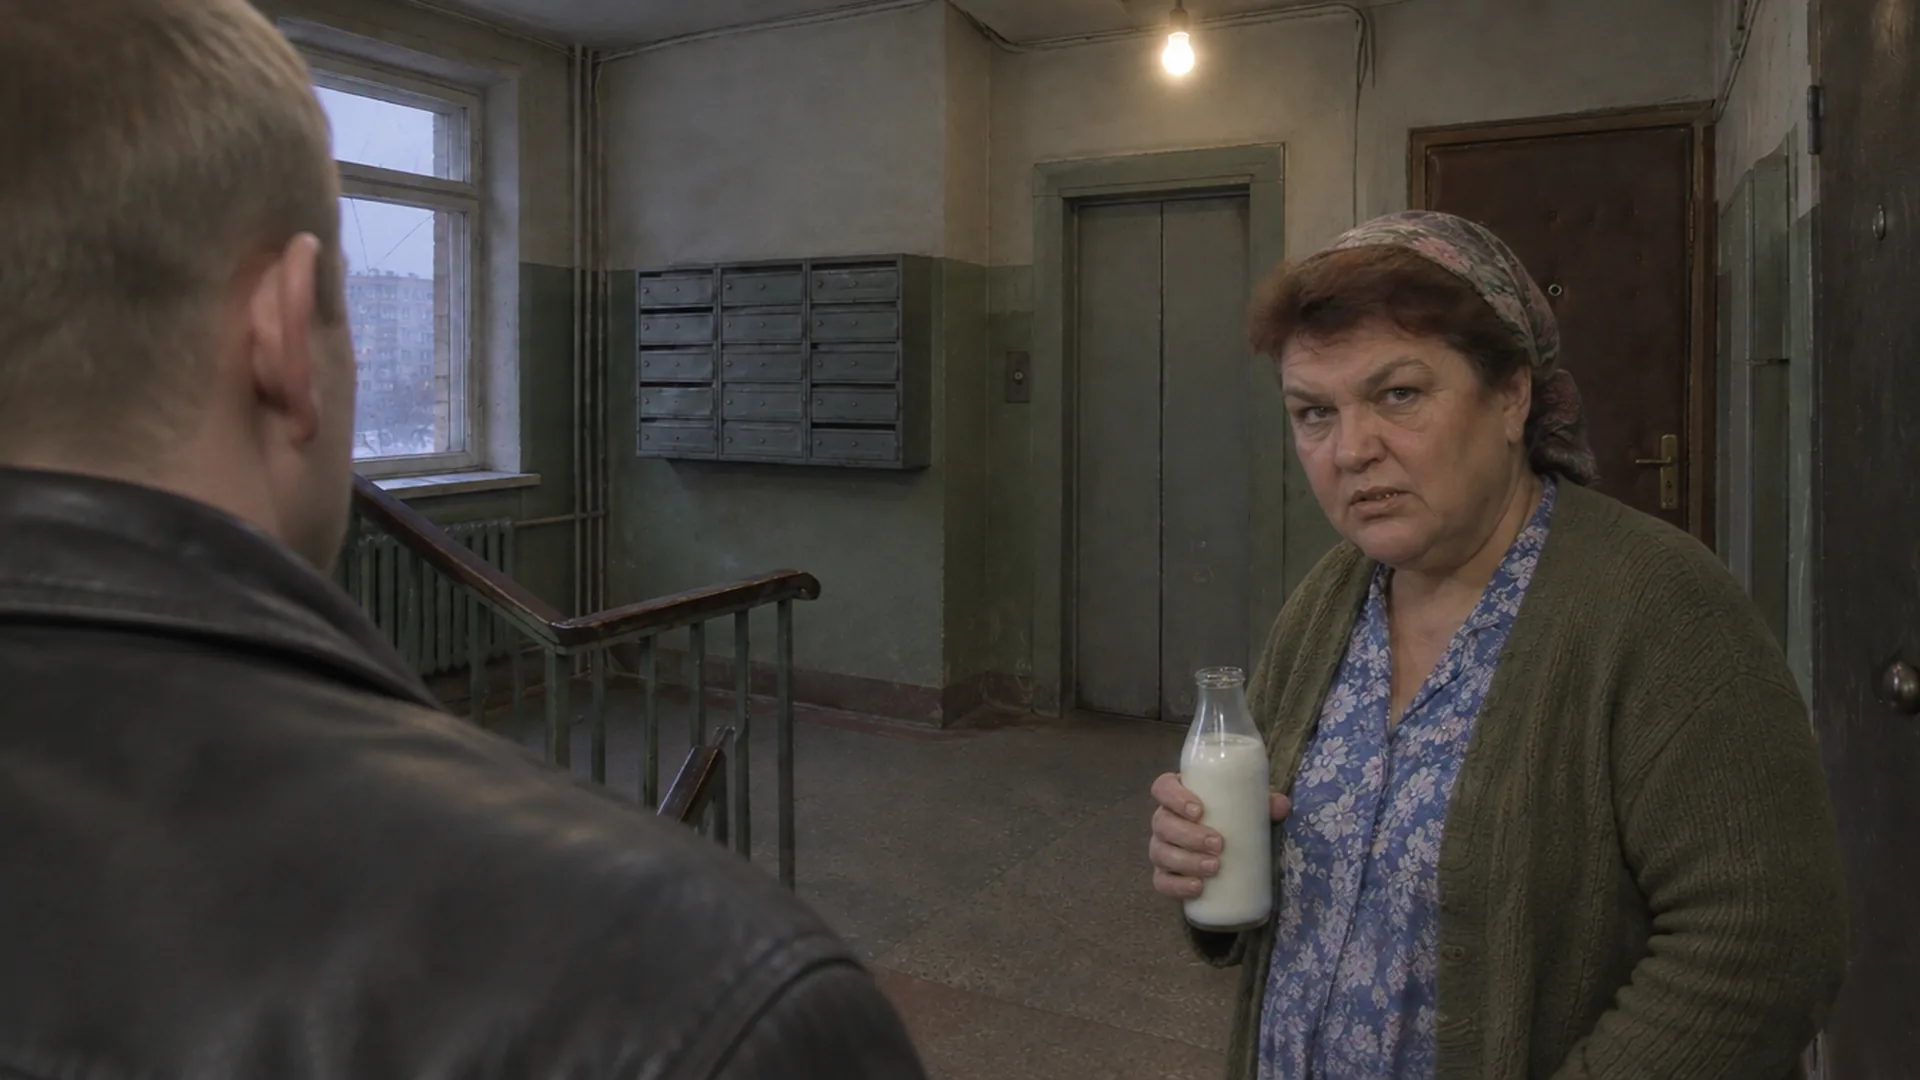
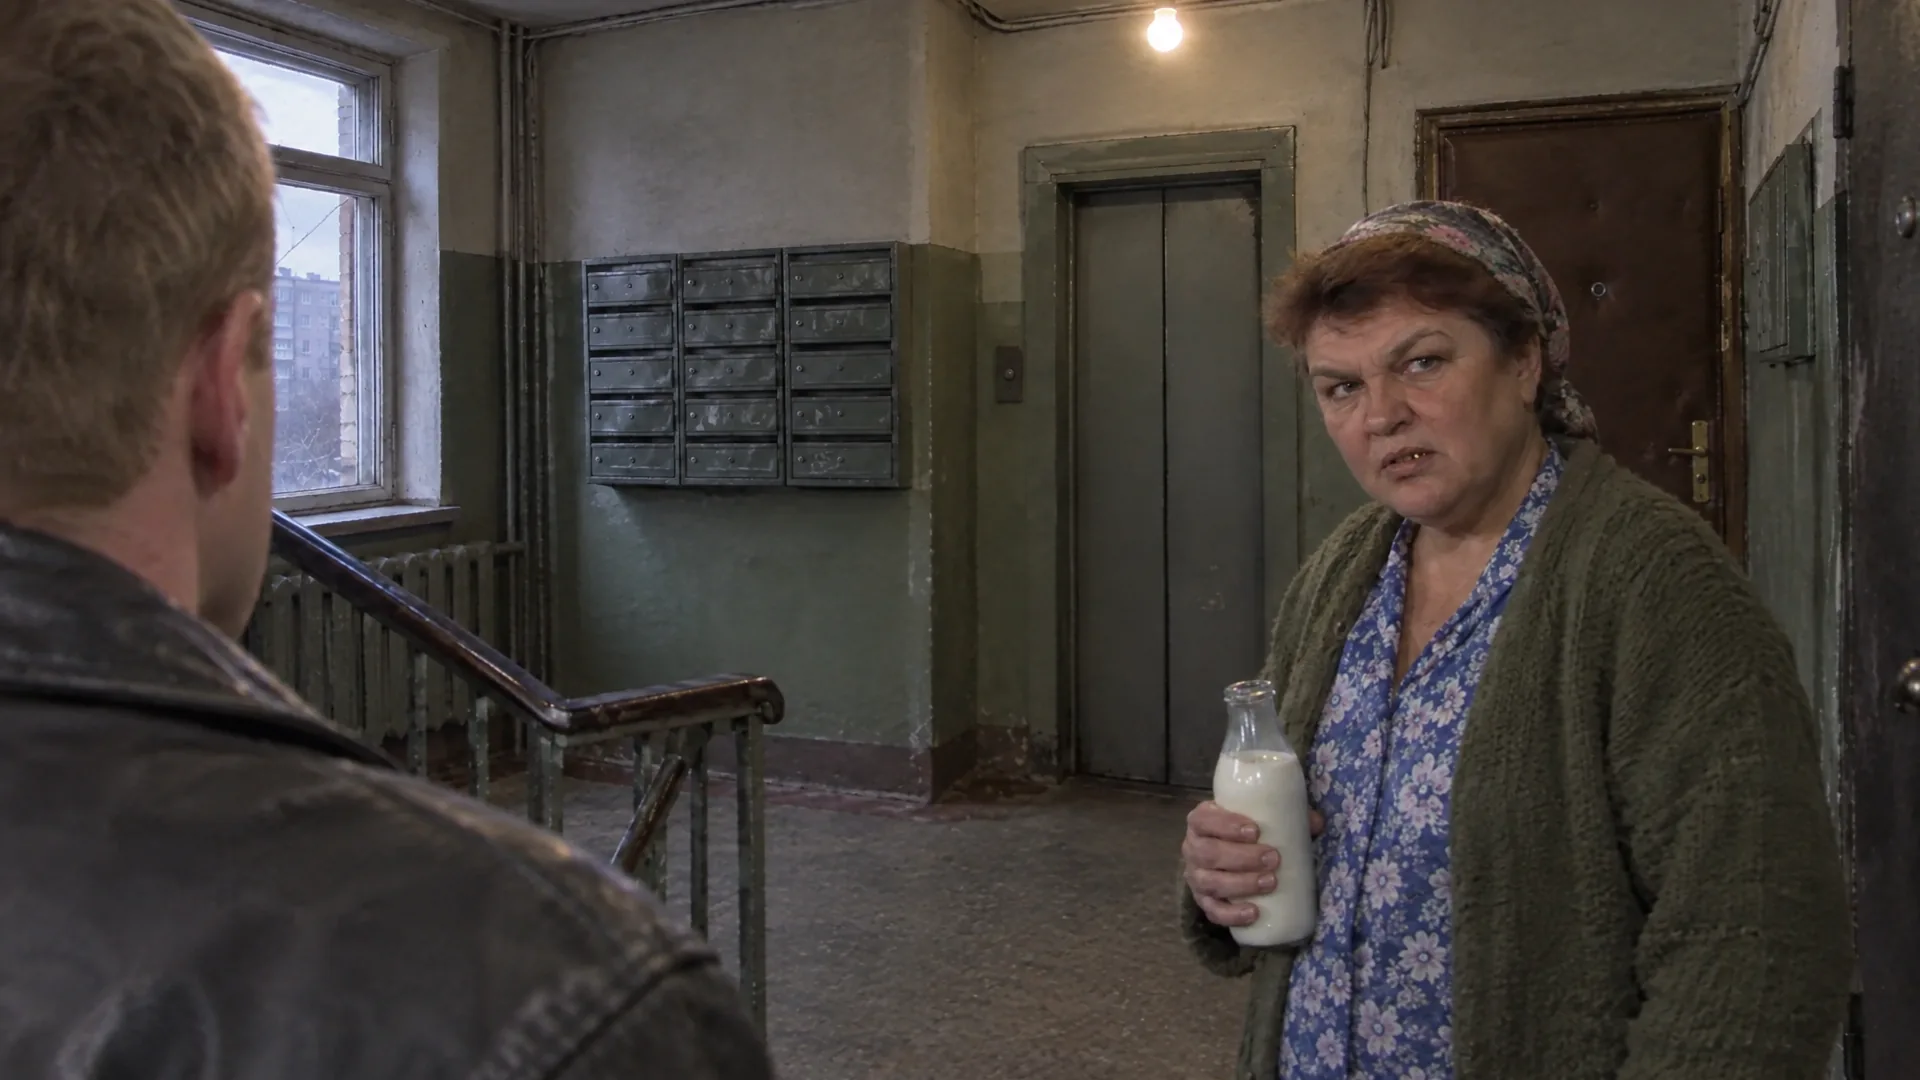
Пересъёмка на high: stairwell — 28 кадров через API, кропы-референсы локальными файлами
Общие планы по фону и лицам, эталонный крупный план соседки, кропы нового
wide_1/wide_3 (crop_ref.py) вместо загруженных в Higgsfield; 28 из 28
приняты с первого раза, $2.27.

diff --git a/tools/shot_plan.py b/tools/shot_plan.py
@@ -543,9 +543,9 @@ REGEN = False  # --regen: кадры по новым лицам — старые
 # "medium"/"angle"/"insert"/"medium_solo" — загруженные кропы этого плана (media:<id>, assets/ep01/refs/*_v2.jpg),
 # "close"/"reaction" — принятый новый крупный план. Общие планы (wide) всегда снимаются по фону без людей.
 REGEN_REFS: dict[str, dict[str, str]] = {
-    "stairwell": {"room": "sh_stairwell_wide_1", "medium": "media:cf6026f7-41b1-48a1-bd0b-5e8d43ebdfaf",
-                  "angle": "media:cf6026f7-41b1-48a1-bd0b-5e8d43ebdfaf", "insert": "media:cf6026f7-41b1-48a1-bd0b-5e8d43ebdfaf",
-                  "medium_solo": "media:c710dca4-599d-4153-914e-7fdf00dfcac3"},
+    "stairwell": {"room": "sh_stairwell_wide_1", "medium": "file:assets/ep01/refs/stairwell_medium_v2.jpg",
+                  "angle": "file:assets/ep01/refs/stairwell_medium_v2.jpg", "insert": "file:assets/ep01/refs/stairwell_medium_v2.jpg",
+                  "medium_solo": "file:assets/ep01/refs/stairwell_medium_solo_v2.jpg"},
     "apartment_zoya": {"room": "sh_apartment_zoya_wide_1", "medium": "file:assets/ep01/refs/apartment_zoya_medium_v2.jpg",
                        "angle": "file:assets/ep01/refs/apartment_zoya_medium_v2.jpg", "insert": "file:assets/ep01/refs/apartment_zoya_medium_v2.jpg",
                        "medium_solo": "media:f2b7b3ac-4120-4d2f-9501-dd407a5aab1b"},

diff --git a/tools/regen/crop_ref.py b/tools/regen/crop_ref.py
@@ -1,0 +1,9 @@
+"""crop_ref.py <кадр.png|webp> <refs/out.jpg> [x0 y0 x1 y1]: кроп-референс средней крупности из принятого общего плана —
+доли кадра (по умолчанию 0.15 0.12 0.85 0.82), растянутые до 1920×1080, jpg q92. В REGEN_REFS — как file:<out.jpg>."""
+import sys
+from PIL import Image
+src, out = sys.argv[1], sys.argv[2]
+b = [float(v) for v in sys.argv[3:7]] or [0.15, 0.12, 0.85, 0.82]
+im = Image.open(src).convert('RGB'); w, h = im.size
+im.crop((round(b[0] * w), round(b[1] * h), round(b[2] * w), round(b[3] * h))).resize((1920, 1080), Image.LANCZOS).save(out, quality=92)
+print(out, b)

diff --git a/assets/ep01/generation-log.md b/assets/ep01/generation-log.md
@@ -414,6 +414,7 @@ daylight, slush»). Решение: панорама хроники переге
 | 100 | **Пересъёмка покрытия по новым лицам**, сет stairwell (по просьбе владельца «вобрать все кадры с новыми портретами, качество 1080, проверять на артефакты»): 28 кадров gpt_image_2_5, `quality: low`, `resolution: 1k` (1344×752, 0,25 кредита за кадр), общий план wide_1 — `medium` (0,5). Планировщик `--regen`: общие планы по фону без людей и лицам из `faces/`; средние, ракурсы и вставки — по загруженному кропу нового wide_1; ots — по новому wide_1; крупные и реакции — только по лицу, фон из текста сцены; старые кадры референсом не идут. Каждый кадр просмотрен: лицо против портрета, руки и пальцы, предметы без дублей, надписи не читаются, эпоха | принято 28 из 28, отбраковано 0; ≈ 7,25 кредита |
 | 101 | **Спрайты по новым лицам, high** (решение владельца 2026-10-12: всё с людьми и для мини-игр — `quality: high`): 13 баз `neutral` gpt_image_2_5 flare, 9:16, high/2k (2,75 кредита), `background: transparent`, Reference 1 — файл лица `faces/<id>.webp`; SCENE — `export_prompts.sprite_scene`, план — `tools/regen/sprite_plan.py`. Старые спрайты (2026-10-10) были по лицам первой редакции | 13 из 13 приняты с первого раза: лицо и одежда совпадают с портретом, альфа есть (1520×2688 → 792×1400), руки целы; 35,75 кредита |
 | 102 | **Выражения спрайтов, high**: 21 правка принятой базы (Reference 1 — база, «то же лицо, одежда, поза и кадр; меняется только выражение»; тексты выражений — `sprite_plan.EXPR`). 13 — Higgsfield high/2k (кредиты кончились: 2,55 осталось), 8 — API gpt-image-2.5-flare high 1088×1920 с `background: transparent` (≈ $0.055 за спрайт; альфа есть) | 21 из 21 приняты с первого раза; рамка фигуры у выражения совпадает с базой в пределах 1–2 % высоты (boss.tired оседает — так в тексте выражения), смена выражения в игре без скачка |
+| 103 | **Пересъёмка stairwell на high** через API (gpt-image-2.5-flare, high, 1920×1088 → 1920×1080): волна A — wide ×3 по фону и лицам + эталонный крупный план соседки; кропы нового wide_1 и wide_3 → `refs/stairwell_medium_v2.jpg`, `refs/stairwell_medium_solo_v2.jpg` (`tools/regen/crop_ref.py`, в `REGEN_REFS` как `file:`); волна B — 24 кадра | 28 из 28 приняты с первого раза; печать на бумажке вставки и газеты в ящиках — нечитаемая вязь; почтовые ящики на крупных планах синее, чем на общих (крупные строятся без референса комнаты, фон размыт) — допустимо; $2.27 (≈ $0.081 за кадр) |
 
 Правила, добавленные по итогам: словесные приметы каждого референса (`docs/production/prompts/ep01-images.md`,
 таблица персонажей); для `ots` — «камера за спиной X, лицом к камере Y, людей не менять местами» и явные

diff --git a/assets/ep01/regen/README.md b/assets/ep01/regen/README.md
@@ -17,7 +17,7 @@
 |---|---|---|---|
 | Спрайты — базы `neutral` | 13 | 13 (в манифесте, файлы на месте) | Higgsfield high/2k |
 | Спрайты — выражения | 21 | 21 | 13 Higgsfield high/2k, 8 API |
-| Кадры покрытия (все 14 сетов, с stairwell) | 333 | 0 | API (кредитов Higgsfield на них не останется) |
+| Кадры покрытия (все 14 сетов) | 333 | 28 (stairwell закрыт) | API, ≈ $0.08 за кадр |
 | CG (5) и документы `doc_*` (5) | 10 | 0 | API |
 
 Кредиты Higgsfield израсходованы (2,55 — меньше одной картинки high/2k): дальше всё через API. Цены high: 2k — 2,75, 1k — 1,5 кредита
